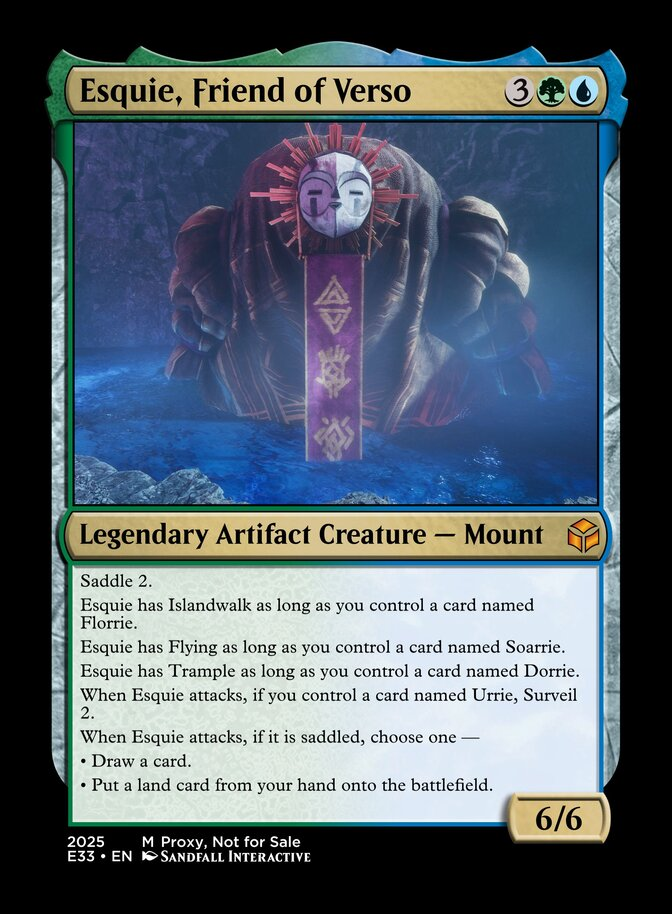
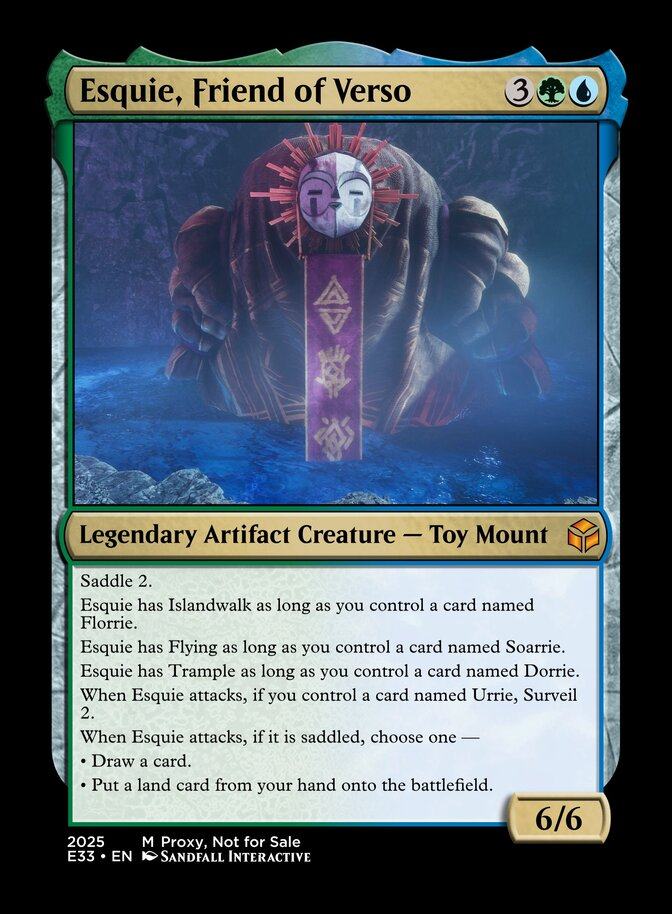
Add Toy sub-type to Esquie
Fixes #69

Changed region(s): [[0.125, 0.5514, 0.8125, 0.6127]]

diff --git a/design/MULTICOLOR.md b/design/MULTICOLOR.md
@@ -1,6 +1,6 @@
 # Cards
 
-> Last generated: 1/1/2026 4:43:03 am
+> Last generated: 1/1/2026 4:50:05 am
 
 ## A Storm is Coming
 
@@ -471,7 +471,7 @@ Choose one or more —
 
 ```
 3GU
-Legendary Artifact Creature - Mount
+Legendary Artifact Creature - Toy Mount
 Saddle 2.
 Esquie has Islandwalk as long as you control a card named Florrie.
 Esquie has Flying as long as you control a card named Soarrie.
